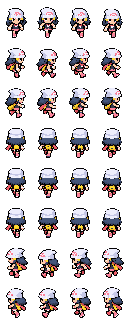
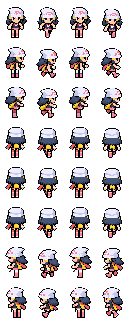
fix(combate): caminhada do treinador no ciclo do PMD
Conferido contra o Machoke do SpriteCollab (AnimData Walk 8/10/8/10):
o PMD anda NEUTRO, PASSO, NEUTRO, PASSO, com o corpo 1 px acima no
neutro. As folhas da IA traziam 4 passos sem neutro nem balanco, e o
quadro trocava a cada 5 px (18 quadros/s a 91 px/s, perna de corrida).

- Conversor: quadros 0/2 = pose em pe com tronco 1 px acima; 1/3 = par
  de passos opostos da arte (0,2 ou 1,3, o mais aberto). Todas as 5
  skins regeneradas (Idle inalterado).
- Passada por distancia 9/11/9/11 px (volta de 40 px, ~9 quadros/s).
- Parou no meio do passo: fecha no neutro em vez de congelar de perna
  aberta durante a folga.
- Nota 7.89.

diff --git a/src/render/treinadorEmCampo.ts b/src/render/treinadorEmCampo.ts
@@ -22,6 +22,11 @@
 // Tamanho (08/10, pedido do dono): o boneco tem 30 px de altura (a arte
 // anterior tinha 35) — um pouco menor, na proporcao dos POKE.
 //
+// Walk (09/10): ciclo do PMD (conferido no Machoke do SpriteCollab) — quadros
+// 0 e 2 sao o NEUTRO (pernas juntas, corpo 1 px acima: o balanco do andar), 1 e
+// 3 os passos com pe trocado. A arte da IA trazia 4 passos sem neutro nem
+// balanco, e a perna "pedalava".
+//
 // Idle: a folha so tem passos (um pe sempre no ar). A pose em pe usa cabeca e
 // tronco do passo mais fechado e redesenha as pernas paradas, lado a lado, com
 // as cores da propria folha; o segundo quadro desce o tronco 1 px (respiracao).
@@ -49,12 +54,16 @@ const ALTURA_DO_BONECO = 30
 /** Cor do nome do treinador: azul claro, pra nao confundir com o nome dos POKE (branco/raridade). */
 const COR_DO_NOME = '#9fd8ff'
 /**
- * Px de caminho por quadro de caminhada (08/10, "movimentos fluidos"). A
- * caminhada avanca pela DISTANCIA andada, e nao pelo relogio: com o relogio, o
- * passo seguia no mesmo ritmo com o POKE devagar ou rapido, e o pe escorregava
- * no chao. Por distancia, cada passo cobre sempre o mesmo chao.
+ * Px de caminho por quadro de caminhada. A caminhada avanca pela DISTANCIA
+ * andada, e nao pelo relogio (08/10): por distancia, cada passo cobre sempre o
+ * mesmo chao e o pe nao escorrega.
+ *
+ * 09/10: o ciclo e o do PMD — NEUTRO, PASSO, NEUTRO, PASSO, nas proporcoes
+ * 8/10/8/10 da AnimData (passo dura mais que o neutro). Volta inteira = 40 px.
+ * Era 5 px por quadro (20 px a volta): com o POKE a 91 px/s davam 18 quadros
+ * por segundo, perna de corrida num boneco que anda.
  */
-const PX_POR_QUADRO_DE_PASSO = 5
+const PX_POR_QUADRO_DE_PASSO = [9, 11, 9, 11]
 /** Parado por pelo menos isto (s) pra voltar a pose em pe — sem pisca andar/parar. */
 const FOLGA_PRA_PARAR = 0.15
 /** Quanto a direcao segue o movimento por quadro (0..1): vira suave, sem tremer de linha. */
@@ -62,7 +71,7 @@ const SUAVIZA_DIRECAO = 0.25
 
 /** Duracao (ticks de 1/60 s) de cada quadro. Toda skin tem o mesmo formato de folha. */
 const DURACOES: Record<'Walk' | 'Idle', number[]> = {
-  Walk: [8, 8, 8, 8],
+  Walk: [8, 10, 8, 10],
   // Idle: pose EM PE (ver topo); o segundo quadro e a respiracao.
   Idle: [50, 50],
 }
@@ -133,6 +142,11 @@ export class TreinadorEmCampo {
     return this.e.anim
   }
 
+  /** Quadro da animacao atual (0..3 na caminhada). */
+  get quadro(): number {
+    return this.e.quadro
+  }
+
   private reposicionar(poke: PokeEmCampo): void {
     const f = poke.facing && (poke.facing.x || poke.facing.y) ? poke.facing : { x: 0, y: 1 }
     const n = Math.hypot(f.x, f.y) || 1
@@ -188,14 +202,17 @@ export class TreinadorEmCampo {
       }
     } else {
       e.parado += dt
+      // Parou no meio do passo: fecha as pernas no NEUTRO (quadros pares) em vez
+      // de congelar de perna aberta durante a folga.
+      if (e.anim === 'Walk' && e.quadro % 2 === 1) { e.quadro -= 1; e.ticks = 0 }
     }
     const anim = andou || (e.anim === 'Walk' && e.parado < FOLGA_PRA_PARAR) ? 'Walk' : 'Idle'
     if (anim !== e.anim) { e.anim = anim; e.quadro = 0; e.ticks = 0 }
     const duracoes = DURACOES[e.anim]
     if (e.anim === 'Walk') {
       e.ticks += passo
-      while (e.ticks >= PX_POR_QUADRO_DE_PASSO) {
-        e.ticks -= PX_POR_QUADRO_DE_PASSO
+      while (e.ticks >= PX_POR_QUADRO_DE_PASSO[e.quadro]) {
+        e.ticks -= PX_POR_QUADRO_DE_PASSO[e.quadro]
         e.quadro = (e.quadro + 1) % duracoes.length
       }
     } else {

diff --git a/src/render/treinadorEmCampo.test.ts b/src/render/treinadorEmCampo.test.ts
@@ -85,4 +85,31 @@ describe('TreinadorEmCampo', () => {
     expect(textos[0].texto).toBe('Ash')
     expect(textos[0].y).toBeLessThan(t.pe!.y - 30)
   })
+
+  it('caminhada no ciclo do PMD: um quadro a cada ~10 px, volta inteira em 40 px', () => {
+    const t = new TreinadorEmCampo()
+    andar(t, { x: 0, y: 100 }, { x: 200, y: 100 })
+    // Comeca a contar do zero a partir daqui: reposiciona e anda 1 px por quadro.
+    const quadros: number[] = []
+    let x = 200
+    for (let i = 0; i < 80; i++) {
+      x += 1
+      t.atualizar({ x, y: 100, radius: RAIO, facing: { x: 1, y: 0 } }, 1 / 60)
+      quadros.push(t.quadro)
+    }
+    // Troca de quadro: 4 trocas por 40 px (9/11/9/11), e nao 8 (era 5 px cada).
+    const trocas = quadros.filter((q, i) => i > 0 && q !== quadros[i - 1]).length
+    expect(trocas).toBe(8)
+    expect(new Set(quadros)).toEqual(new Set([0, 1, 2, 3]))
+  })
+
+  it('parando no meio do passo, fecha as pernas no quadro neutro', () => {
+    const t = new TreinadorEmCampo()
+    andar(t, { x: 0, y: 100 }, { x: 200, y: 100 })
+    let x = 200
+    while (t.quadro % 2 === 0) { x += 1; t.atualizar({ x, y: 100, radius: RAIO, facing: { x: 1, y: 0 } }, 1 / 60) }
+    t.atualizar({ x, y: 100, radius: RAIO, facing: { x: 1, y: 0 } }, 1 / 60)
+    expect(t.animacao).toBe('Walk')
+    expect(t.quadro % 2).toBe(0)
+  })
 })

diff --git a/src/data/patchNotes.ts b/src/data/patchNotes.ts
@@ -12,6 +12,17 @@ export interface PatchNoteEntry {
 }
 
 export const PATCH_NOTES: PatchNoteEntry[] = [
+  // Caminhada do treinador no ciclo do PMD.
+  {
+    version: '7.89',
+    date: '2026-10-09',
+    title: 'Treinador caminhando de verdade',
+    highlights: [
+      'A caminhada do treinador segue o ritmo dos POKEs: pernas juntas, passo, pernas juntas, passo — com o leve sobe e desce do corpo.',
+      'A passada ficou mais longa e calma: antes as pernas trocavam rápido demais, como se estivesse correndo.',
+      'Ao parar no meio do passo, o treinador fecha as pernas em vez de congelar com a perna aberta. Vale para todas as skins.',
+    ],
+  },
   // Skins do treinador em campo, escolhidas no Perfil.
   {
     version: '7.88',
